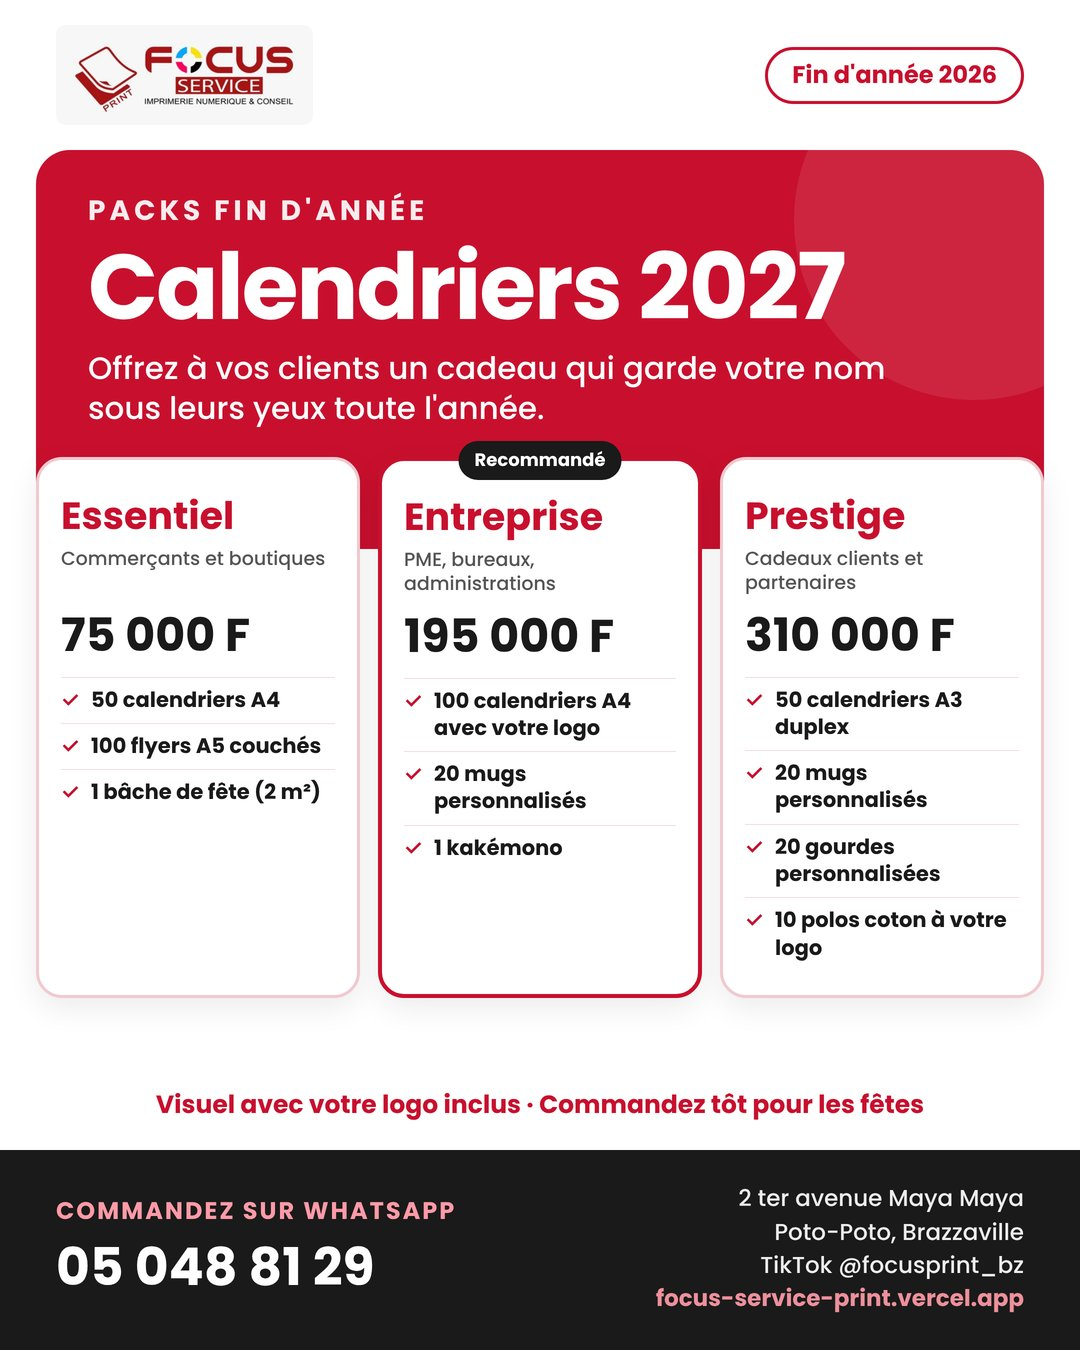
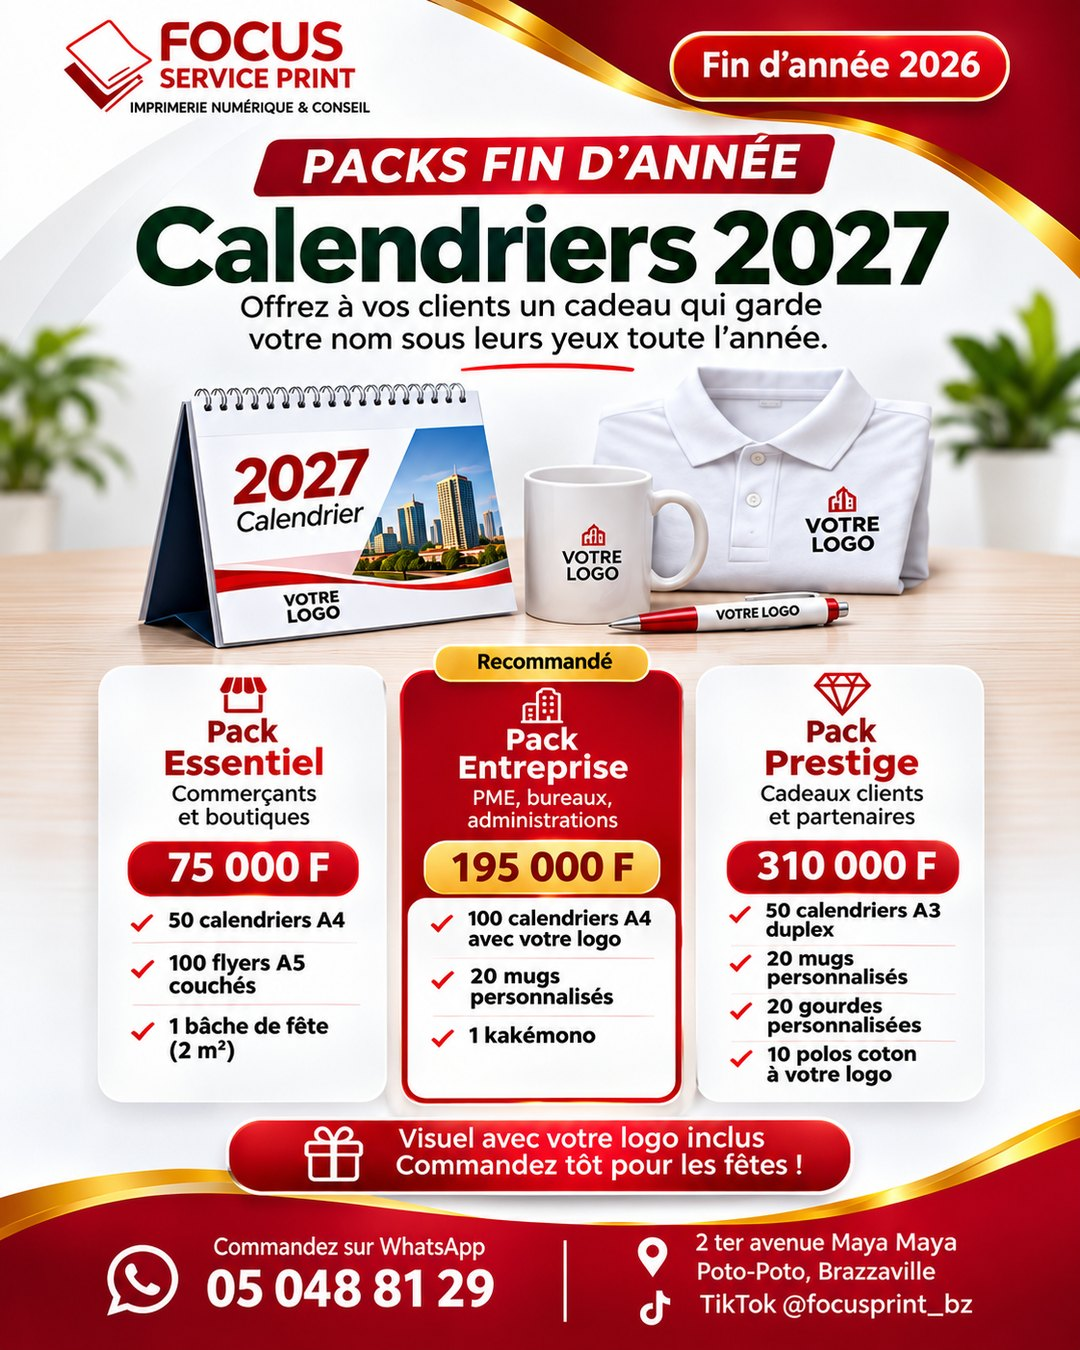
Nouvelle affiche Packs fin d'année (version rouge avec photos produits)
Claude-Session: https://claude.ai/code/session_01W7vK91u2Hbfzg7fBFCV3CD

diff --git a/index.html b/index.html
@@ -86,7 +86,7 @@ header .btn{margin-top:8px}
 <h1>Votre communication visuelle, de la création à l'impression.</h1>
 <p>Nous accompagnons les entreprises dans la conception de leur identité, la réalisation de leurs supports et la personnalisation de leurs articles.</p>
 <a class="btn" href="https://wa.me/242050488129?text=Bonjour%2C%20je%20souhaite%20un%20devis%20d%27impression.">Demander un devis</a><a class="btn alt" href="#tarifs">Voir nos tarifs</a>
-</div><aside id="offres" class="hr" aria-label="Offres du moment"><p class="eyebrow">Offres du moment</p><div class="sprow"><figure class="sp"><a href="img/offre-fin-annee.jpg" target="_blank" rel="noopener"><img src="img/offre-fin-annee.jpg" alt="Affiche Packs fin d'année : calendriers 2027" loading="lazy" width="1080" height="1350"></a><figcaption><strong>Packs fin d'année : calendriers 2027</strong><span>Essentiel 75 000 F · Entreprise 195 000 F · Prestige 310 000 F</span><a class="btn" href="https://wa.me/242050488129?text=Bonjour%2C%20je%20souhaite%20commander%20un%20Pack%20fin%20d%27ann%C3%A9e%20%28calendriers%202027%29.">Commander sur WhatsApp</a></figcaption></figure><figure class="sp"><a href="img/offre-pme.jpg" target="_blank" rel="noopener"><img src="img/offre-pme.jpg" alt="Affiche Pack PME" loading="lazy" width="1080" height="1350"></a><figcaption><strong>Pack PME</strong><span>90 000 F : 100 cartes de visite, 200 flyers, 1 kakémono, 1 cachet</span><a class="btn" href="https://wa.me/242050488129?text=Bonjour%2C%20je%20souhaite%20commander%20le%20Pack%20PME%20%C3%A0%2090%20000%20FCFA.">Commander sur WhatsApp</a></figcaption></figure><figure class="sp"><a href="img/offre-eglise.jpg" target="_blank" rel="noopener"><img src="img/offre-eglise.jpg" alt="Affiche Pack Église et association" loading="lazy" width="1080" height="1350"></a><figcaption><strong>Pack Église et association</strong><span>À partir de 170 000 F</span><a class="btn" href="https://wa.me/242050488129?text=Bonjour%2C%20je%20souhaite%20commander%20le%20Pack%20%C3%89glise%20et%20association.">Commander sur WhatsApp</a></figcaption></figure></div><p class="hint">Faites glisser pour voir les 3 offres</p></aside></div></div></header>
+</div><aside id="offres" class="hr" aria-label="Offres du moment"><p class="eyebrow">Offres du moment</p><div class="sprow"><figure class="sp"><a href="img/offre-fin-annee.jpg?v=2" target="_blank" rel="noopener"><img src="img/offre-fin-annee.jpg?v=2" alt="Affiche Packs fin d'année : calendriers 2027" loading="lazy" width="1080" height="1350"></a><figcaption><strong>Packs fin d'année : calendriers 2027</strong><span>Essentiel 75 000 F · Entreprise 195 000 F · Prestige 310 000 F</span><a class="btn" href="https://wa.me/242050488129?text=Bonjour%2C%20je%20souhaite%20commander%20un%20Pack%20fin%20d%27ann%C3%A9e%20%28calendriers%202027%29.">Commander sur WhatsApp</a></figcaption></figure><figure class="sp"><a href="img/offre-pme.jpg" target="_blank" rel="noopener"><img src="img/offre-pme.jpg" alt="Affiche Pack PME" loading="lazy" width="1080" height="1350"></a><figcaption><strong>Pack PME</strong><span>90 000 F : 100 cartes de visite, 200 flyers, 1 kakémono, 1 cachet</span><a class="btn" href="https://wa.me/242050488129?text=Bonjour%2C%20je%20souhaite%20commander%20le%20Pack%20PME%20%C3%A0%2090%20000%20FCFA.">Commander sur WhatsApp</a></figcaption></figure><figure class="sp"><a href="img/offre-eglise.jpg" target="_blank" rel="noopener"><img src="img/offre-eglise.jpg" alt="Affiche Pack Église et association" loading="lazy" width="1080" height="1350"></a><figcaption><strong>Pack Église et association</strong><span>À partir de 170 000 F</span><a class="btn" href="https://wa.me/242050488129?text=Bonjour%2C%20je%20souhaite%20commander%20le%20Pack%20%C3%89glise%20et%20association.">Commander sur WhatsApp</a></figcaption></figure></div><p class="hint">Faites glisser pour voir les 3 offres</p></aside></div></div></header>
 
 <section><div class="wrap">
 <h2>Nos packs de communication</h2>
